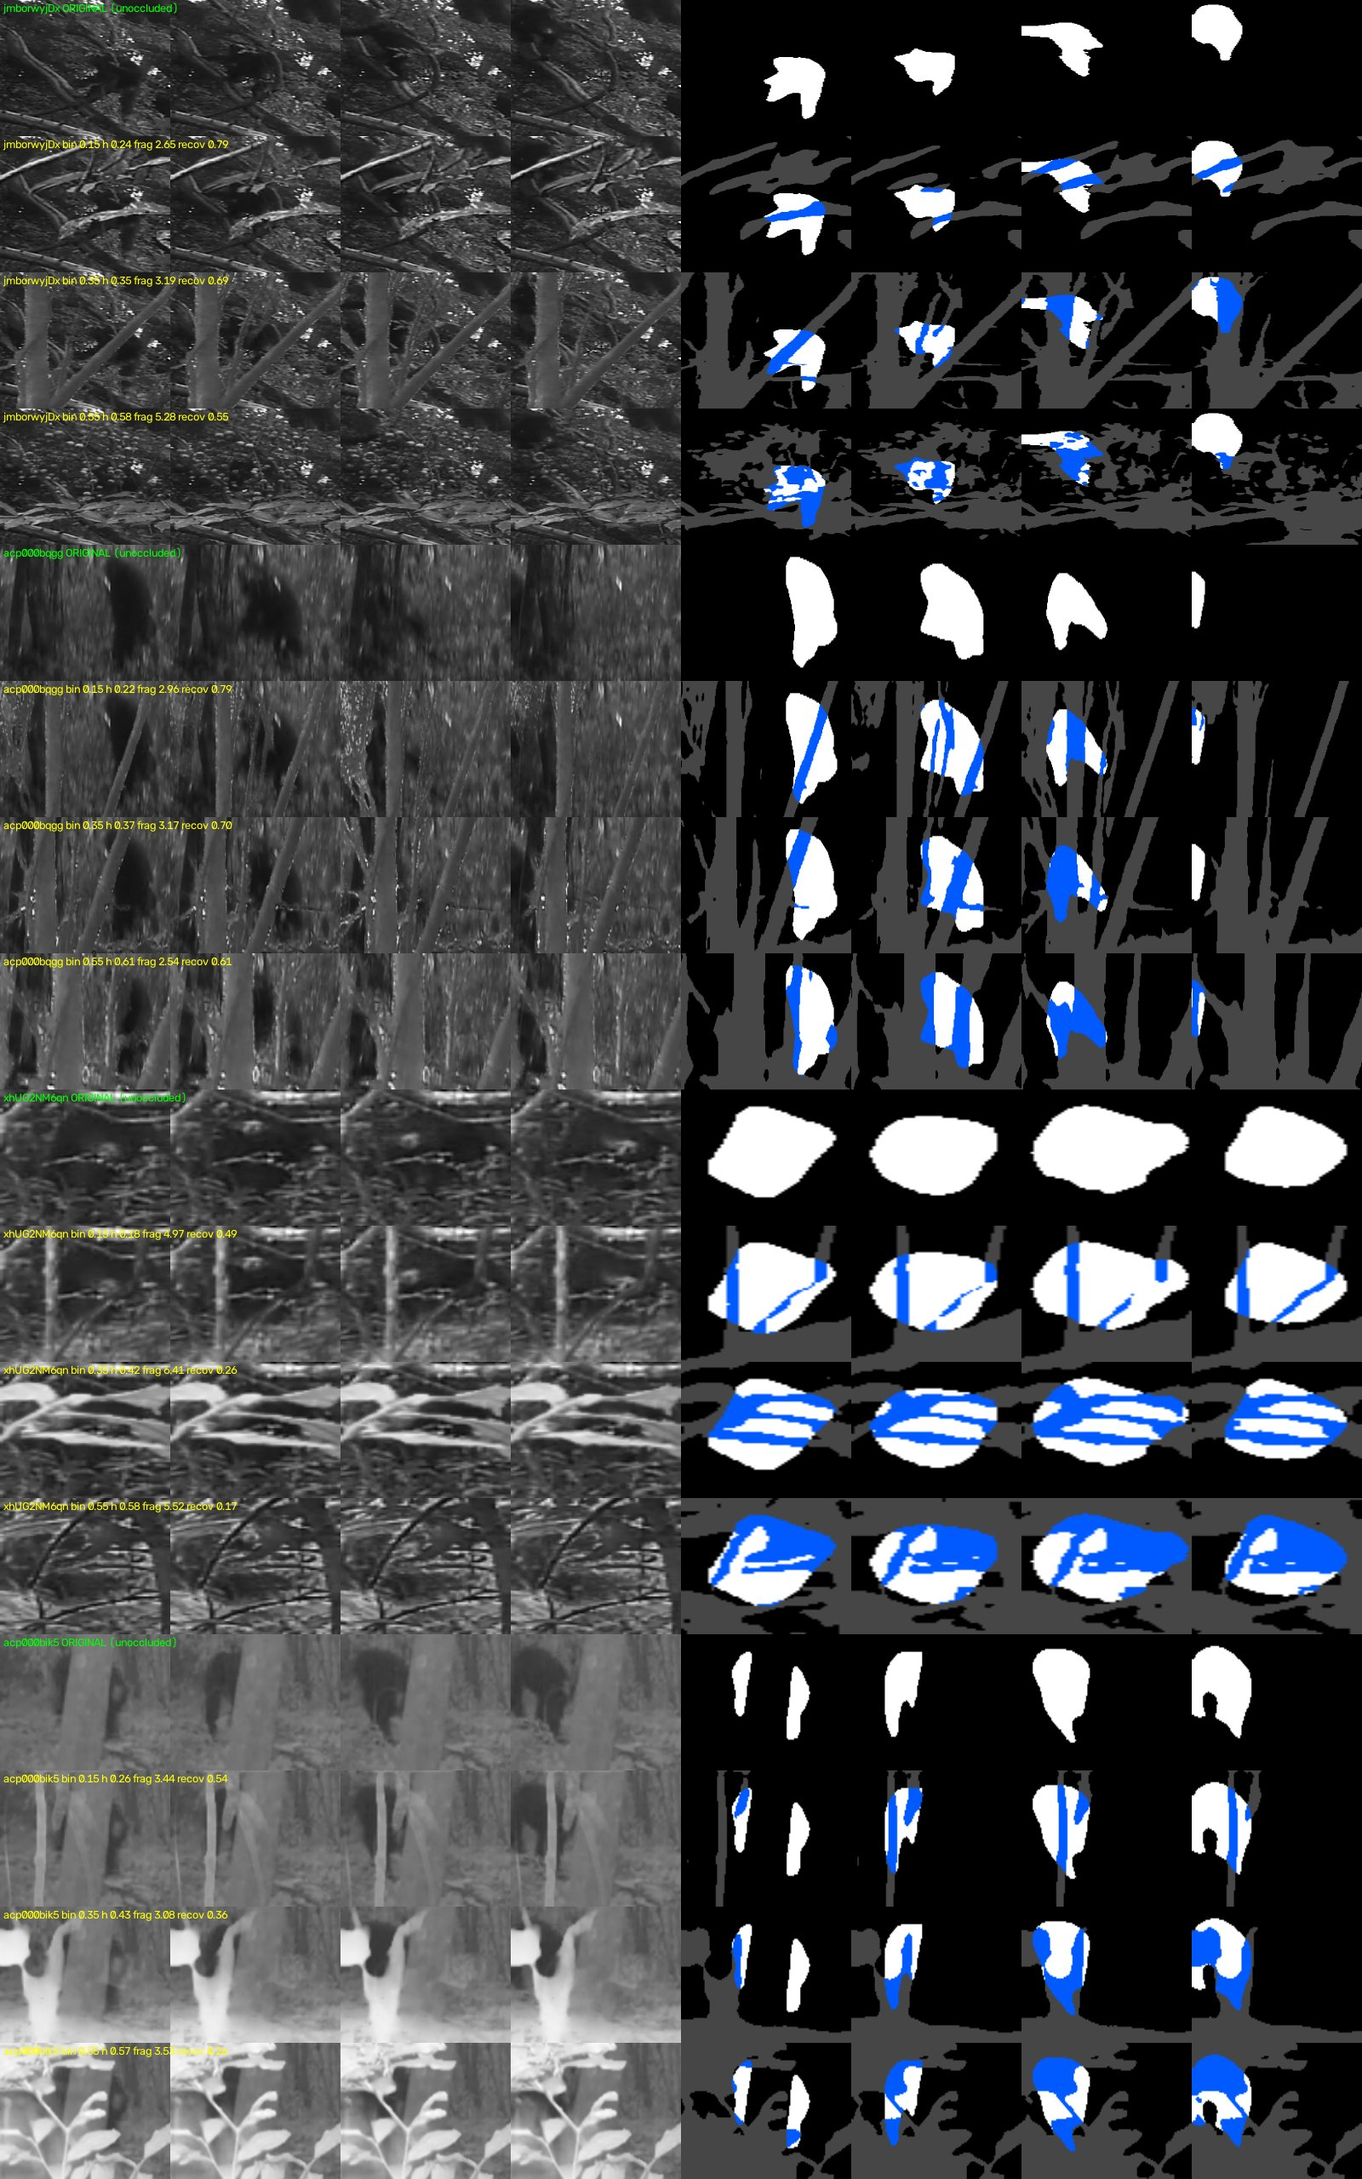
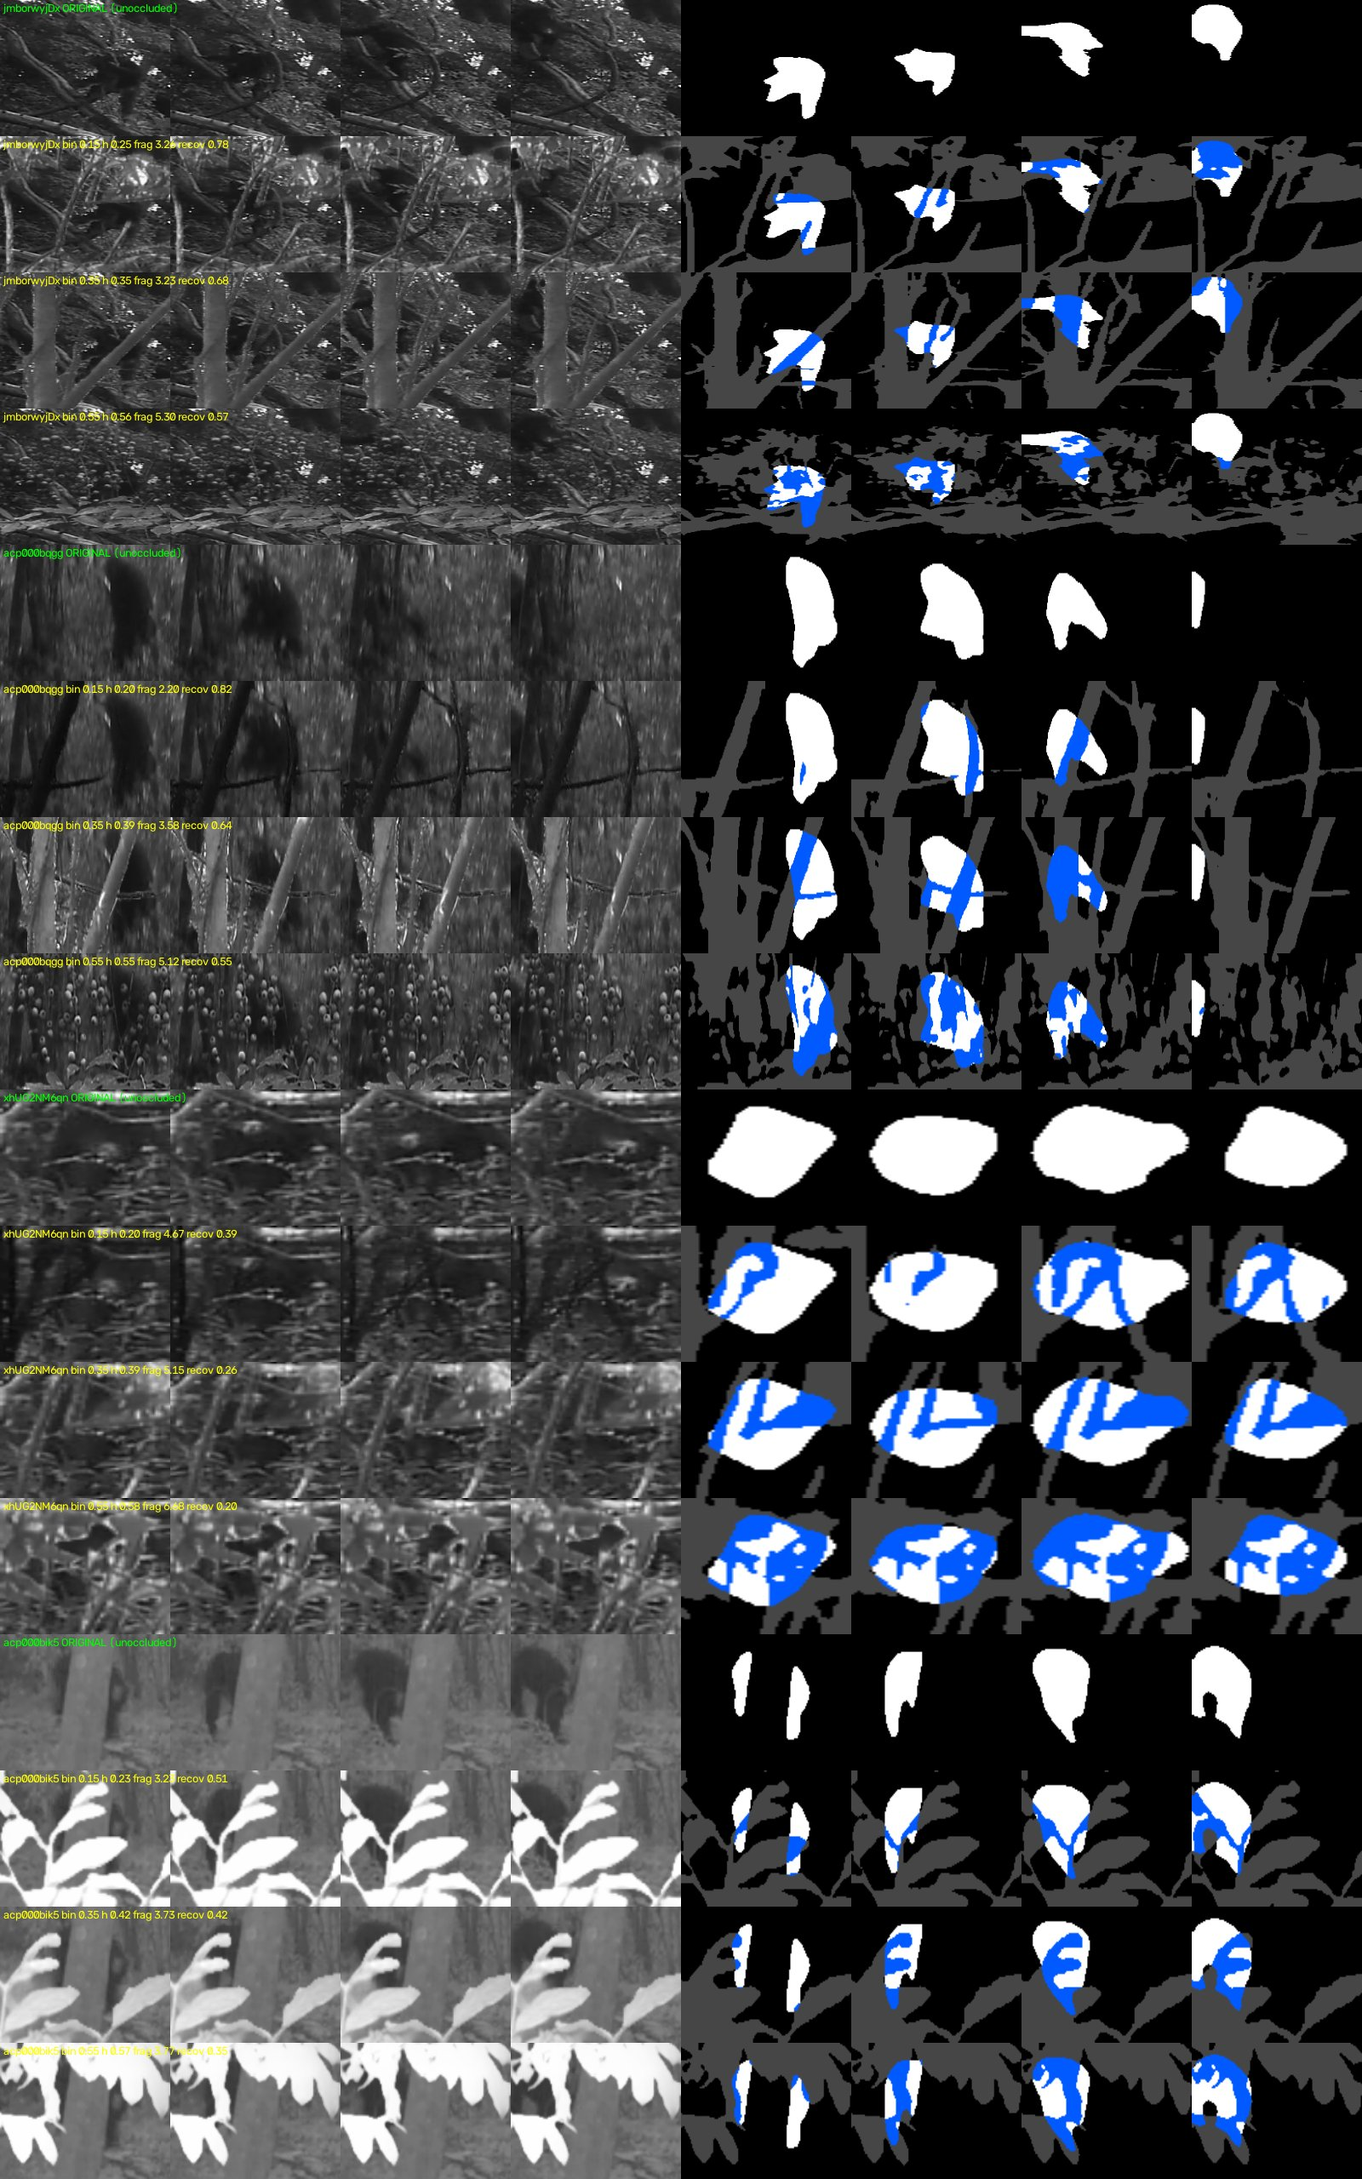
Ape Stage 1: clip loader (planted real-foliage clips in the fusion_data raw format); simpler one-stage clash search; build() takes an optional given track and x+y history shift (NFO build output identical)

diff --git a/benchmark/nfo_vos/ape/data.py b/benchmark/nfo_vos/ape/data.py
@@ -1,0 +1,134 @@
+"""Ape clip loader (Stage 1): one planted training clip in the raw-clip format of adapter/fusion_data.clip_raw, so
+fusion_data.build and training run unchanged.
+
+Per clip (results/ape/clip_index.csv, keep): the ape's 40 gray frames X_t (PanAf-SBR video), its SBR masks S_t, and a
+plant from results/ape/plants.csv (ape/plant.py: foliage crops chosen to clash with this ape's trajectory). Sampling:
+a clip uniformly; with P_CLEAR = 0.1 no plant (the adapter must learn that nothing needs fixing), else an occlusion level
+uniformly (15-35 / 35-55 / 55-75% hidden), then one of its <= 8 plants uniformly.
+  - X'_t = alpha_t F_t + (1 - alpha_t) X_t over R, with the source's per-frame alpha and pixels (real sway), plant.plant();
+  - B = the whole-video median of the ape video (cached, results/ape/bg/); B' = median_t of the planted B (the static
+    part of the foliage is in the empty scene, its sway is not);
+  - V_t = S_t & (alpha_t < 0.5). Boxes (cx, cy, h) = tight boxes of S_t (design should-fix 9), NaN where S_t is empty;
+  - track = box centres (gaps interpolated) + N(0, (TRK_SIGMA h)^2) per frame, given to build() as raw['track'] (no
+    kernel tracker; TRK_SIGMA is assumed, to calibrate on MD-seeded SAM2 boxes); occ['shift_xy'] = True (x + y Theil-Sen).
+    python -m benchmark.nfo_vos.ape.data   -> timing + images/ape/loader.jpg (X'_t, integral image C_t, labels)
+"""
+import json
+from pathlib import Path
+import cv2, numpy as np, pandas as pd, torch
+from benchmark.nfo_vos.ape import PANAF_ROOT, SBR_ROOT, OUT
+from benchmark.nfo_vos.ape.foliage import N
+from benchmark.nfo_vos.ape.plant import ape_clip, frames, plant
+from benchmark.nfo_vos.adapter import dataset as D
+from benchmark.nfo_vos.adapter.fusion_data import P_MODES, SIGMA_A
+
+P_CLEAR, TRK_SIGMA = 0.10, 0.05
+
+
+def background(video):
+    """Whole-video gray median of the SBR video, cached as results/ape/bg/<video>.png."""
+    p = OUT / 'bg' / f'{video}.png'
+    if not p.exists():
+        cap, fr = cv2.VideoCapture(str(SBR_ROOT / 'videos' / f'{video}.mp4')), []
+        while True:
+            ok, f = cap.read()
+            if not ok:
+                break
+            fr.append(cv2.cvtColor(f, cv2.COLOR_BGR2GRAY))
+        p.parent.mkdir(parents=True, exist_ok=True); cv2.imwrite(str(p), np.median(np.stack(fr), 0).astype(np.uint8))
+    return cv2.imread(str(p), cv2.IMREAD_GRAYSCALE)
+
+
+def tight_boxes(S):
+    out = np.full((len(S), 3), np.nan)
+    for t, s in enumerate(S):
+        if s.any():
+            ys, xs = np.nonzero(s); out[t] = ((xs.min() + xs.max() + 1) / 2, (ys.min() + ys.max() + 1) / 2, ys.max() - ys.min() + 1)
+    return out
+
+
+def fill(b):
+    """NaN rows filled by linear interpolation / nearest at the ends."""
+    ok = ~np.isnan(b[:, 0]); t = np.arange(len(b))
+    return np.stack([np.interp(t, t[ok], b[ok, j]) for j in range(b.shape[1])], 1)
+
+
+def clip_raw(row, p, rng):
+    """row: a clip_index row; p: a plants.csv row or None (unoccluded)."""
+    S, _ = ape_clip(row)
+    X = frames(SBR_ROOT / 'videos' / f'{row.video}.mp4', row.start - 1)
+    bg = background(row.video)
+    if p is None:
+        A = np.zeros(X.shape, np.float32)
+    else:
+        R = json.loads(row.R); crop = (p.sx1, p.sy1, p.sx2, p.sy2)
+        F = frames(PANAF_ROOT / 'videos' / f'{p.src}.mp4', p.src_start); Al = np.load(OUT / 'foliage' / f'{p.src}.npz')['alpha']
+        X, A = plant(X, R, F, Al, crop)
+        bg = np.median(plant(np.repeat(bg[None], N, 0), R, F, Al, crop)[0], 0).astype(np.uint8)
+    boxes = tight_boxes(S); bf = fill(boxes)
+    track = bf[:, :2] + rng.normal(0, 1, (N, 2)) * TRK_SIGMA * bf[:, 2:3]
+    occ = dict(nh=int(rng.integers(4, 9)), tau=float(rng.uniform(2, 6)), z0='adaptive', shift_xy=True,
+               level=None if p is None else float(p.bin), h=None if p is None else float(p.h))
+    return dict(X=X, bg=bg, V=S & (A < 0.5), S=S, boxes=boxes, bxj=D.jitter(bf, SIGMA_A, rng), track=track,
+                modes=rng.choice(4, N, p=P_MODES), occ=occ, cid=f'{row.video}:{row.ape_id}:{"clear" if p is None else p.src}')
+
+
+def index():
+    C = pd.read_csv(OUT / 'clip_index.csv'); C = C[C.keep].reset_index(drop=True)
+    P = pd.read_csv(OUT / 'plants.csv'); P['ape_id'] = P.ape_id.astype(str); C['ape_id'] = C.ape_id.astype(str)
+    return C, {k: g for k, g in P.groupby(['video', 'ape_id'])}
+
+
+def sample(C, P, rng):
+    r = C.iloc[rng.integers(len(C))]; g = P.get((r.video, r.ape_id))
+    if g is None or rng.random() < P_CLEAR:
+        return r, None
+    lv = rng.choice(g.bin.unique()); g = g[g.bin == lv]
+    return r, g.iloc[rng.integers(len(g))]
+
+
+class ApeClips(torch.utils.data.IterableDataset):
+    """Endless planted training clips from CPU workers (per-worker seed stream), drop-in for fusion_data.Clips('train')."""
+
+    def __init__(self, seed=0):
+        self.seed = seed
+
+    def __iter__(self):
+        wi = torch.utils.data.get_worker_info(); wid = wi.id if wi else 0
+        rng = np.random.default_rng([self.seed, wid, 7]); C, P = index()
+        while True:
+            yield clip_raw(*sample(C, P, rng), rng)
+
+
+def main():
+    """Timing of clip_raw, then one GPU build() per occlusion level; montage of X'_t, the integral image C_t and labels."""
+    import time
+    from benchmark.nfo_vos.adapter.fusion_adapter import image_predictor
+    from benchmark.nfo_vos.adapter.fusion_data import build, hist_warps
+    from benchmark.nfo_vos.adapter.integral_image import integral_image_and_mass
+    C, P = index(); rng = np.random.default_rng(0); t0 = time.time()
+    for _ in range(5):
+        clip_raw(*sample(C, P, rng), rng)
+    print(f'clip_raw: {(time.time() - t0) / 5:.2f} s/clip (CPU, bg cache warm after first visit)', flush=True)
+    pred, rows = image_predictor(), []
+    r = C.iloc[int(rng.integers(len(C)))]; g = P[(r.video, r.ape_id)]
+    for lv in [None] + sorted(g.bin.unique()):
+        p = None if lv is None else g[(g.bin == lv) & (g['rank'] == 0)].iloc[0]
+        raw = clip_raw(r, p, rng); t1 = time.time(); f, meta = build(pred, raw, max_targets=8, rng=rng)
+        torch.cuda.synchronize(); bt = time.time() - t1
+        t = 20; x1, y1, x2, y2 = [int(round(v)) for v in json.loads(r.R)]
+        hist, Ms = hist_warps(raw['track'], t, raw['occ']['nh'], True)
+        Cm, _ = integral_image_and_mass([raw['X'][i].astype(np.float32) for i in hist], Ms, raw['bg'].astype(np.float32), raw['occ']['tau'], 'adaptive')
+        L = np.zeros(raw['S'][t].shape + (3,), np.uint8); L[raw['S'][t]] = (255, 90, 0); L[raw['V'][t]] = (255, 255, 255)
+        tiles = [cv2.cvtColor(q, cv2.COLOR_GRAY2BGR) for q in (raw['X'][t], np.clip(Cm, 0, 255).astype(np.uint8), raw['bg'])] + [L]
+        row = np.hstack([cv2.resize(q[y1:y2, x1:x2], (220, 180)) for q in tiles])
+        hv = 1 - raw['V'][t].sum() / max(raw['S'][t].sum(), 1)
+        cv2.putText(row, f'{"clear" if lv is None else f"level {lv}"} hidden {hv:.2f} | X_t, C_t, B, labels', (4, 14), 0, 0.42, (0, 255, 255), 1)
+        rows.append(row)
+        print(f'level {lv}: build {bt:.2f} s, {len(meta["ts"])} targets, X16 {tuple(f["X16"].shape)}, hidden at t={t}: {hv:.2f}', flush=True)
+    Path('images/ape').mkdir(parents=True, exist_ok=True); cv2.imwrite('images/ape/loader.jpg', np.vstack(rows), [cv2.IMWRITE_JPEG_QUALITY, 85])
+    print(f'{r.video} ape {r.ape_id} -> images/ape/loader.jpg')
+
+
+if __name__ == '__main__':
+    main()

diff --git a/benchmark/nfo_vos/adapter/fusion_data.py b/benchmark/nfo_vos/adapter/fusion_data.py
@@ -119,6 +119,16 @@ def _enc(pred, imgs, chunk=8):
     return [torch.cat(o) for o in out]
 
 
+def hist_warps(trk, t, nh, xy=False):
+    """History frames t-nh..t-1 and their shifts onto frame t: Theil–Sen fit of the track over [t-12, t], x only (NFO)
+    or x and y (xy=True, apes)."""
+    hist = list(range(t - nh, t))
+    cs = list(range(max(0, t - 12), t + 1))
+    fx = theil_at(cs, [trk[l, 0] for l in cs], [t] + hist)
+    fy = theil_at(cs, [trk[l, 1] for l in cs], [t] + hist) if xy else None
+    return hist, [np.float32([[1, 0, fx[t] - fx[i]], [0, 1, fy[t] - fy[i] if xy else 0]]) for i in hist]
+
+
 @torch.no_grad()
 def build(pred, raw, max_targets=None, rng=None, dev='cuda', all_targets=False):
     """GPU side of one clip, the test-time path: encode every frame once (+ the empty scene); kernel-f16 tracker
@@ -133,12 +143,15 @@ def build(pred, raw, max_targets=None, rng=None, dev='cuda', all_targets=False):
     with torch.autocast('cuda', dtype=AMP):
         F16, F8, F4 = _enc(pred, X)
         B16, B8, B4 = _enc(pred, bg[None])
-    dmap = 1 - torch.nn.functional.cosine_similarity(F16.float(), B16.float(), dim=1)
-    dmap = torch.nn.functional.interpolate(dmap[:, None], size=(H, W), mode='bilinear', align_corners=False)[:, 0].cpu().numpy()
     cx0, cy0, h0 = raw['bxj'][0]
     S0 = raw['S'][0] if raw['S'][0].any() else raw['S'][int(np.argmax(raw['S'].sum((1, 2))))]
     ys, xs = np.nonzero(S0); asp0 = (np.ptp(xs) + 1) / (np.ptp(ys) + 1)
-    trk = kernel_track(dmap, (cx0, cy0), asp0 * h0, h0)
+    if 'track' in raw:                     # given track (apes: GT box centres + noise) instead of the kernel-f16 tracker
+        trk = raw['track']
+    else:
+        dmap = 1 - torch.nn.functional.cosine_similarity(F16.float(), B16.float(), dim=1)
+        dmap = torch.nn.functional.interpolate(dmap[:, None], size=(H, W), mode='bilinear', align_corners=False)[:, 0].cpu().numpy()
+        trk = kernel_track(dmap, (cx0, cy0), asp0 * h0, h0)
     nh = occ['nh']
     ok = ~np.isnan(raw['boxes']).any(1)
     # all_targets: every frame with history, no GT gate (the memory bank at test time has no V); training default keeps
@@ -150,12 +163,8 @@ def build(pred, raw, max_targets=None, rng=None, dev='cuda', all_targets=False):
     def comp(t):
         if raw['modes'][t] == 2:
             return bg.astype(np.float32), np.zeros((H, W), np.float32)
-        hist = list(range(t - nh, t))
-        cs = list(range(max(0, t - 12), t + 1))
-        fx = theil_at(cs, [trk[l, 0] for l in cs], [t] + hist)
-        return integral_image_and_mass([X[i].astype(np.float32) for i in hist],
-                                  [np.float32([[1, 0, fx[t] - fx[i]], [0, 1, 0]]) for i in hist], bg.astype(np.float32),
-                                  occ['tau'], occ['z0'])
+        hist, Ms = hist_warps(trk, t, nh, occ.get('shift_xy', False))
+        return integral_image_and_mass([X[i].astype(np.float32) for i in hist], Ms, bg.astype(np.float32), occ['tau'], occ['z0'])
     with ThreadPoolExecutor(8) as ex:
         CA = list(ex.map(comp, ts))
     with torch.autocast('cuda', dtype=AMP):

diff --git a/benchmark/nfo_vos/ape/plant.py b/benchmark/nfo_vos/ape/plant.py
@@ -13,8 +13,8 @@ Scores, with |.| = pixel count on the grid:
   frag    = median_t |edge(O) & S_t| / sqrt|S_t|             occluder boundary inside the ape (fragmentation)
   recov   = mean_t |H_t & U_t| / |H_t|,  H_t = S_t & O,      share of the hidden ape that the last 6 frames saw:
             U_t = OR_{k=1..6} shift(S_{t-k} & ~O, c_t - c_{t-k})   (rigid box-centre motion, as the integral image's shift)
-Per clip and hidden-fraction bin (median h in [.15,.35), [.35,.55), [.55,.75]): the 64 most fragmented valid candidates
-get recov; the top K = 8 by recov, one per source, are kept.
+Per clip and hidden-fraction bin (median h in [.15,.35), [.35,.55), [.55,.75]): valid candidates at least as fragmented
+as the clip's median valid candidate (at most 512, random) get recov; the top K = 8 by recov, one per source, are kept.
     python -m benchmark.nfo_vos.ape.plant  -> results/ape/plants.csv, images/ape/plants.jpg
 Planting itself (plant()) composites the per-frame alpha and pixels of the same source crop over R: real sway.
 """
@@ -30,7 +30,7 @@ from benchmark.nfo_vos.ape.foliage import N
 G, SCALES, NOFF, CHUNK = 128, (0.7, 1.0, 1.4), 64, 4096
 HB, MIN_IN = (0.15, 0.75), N - 6
 BINS = ((0.15, 0.35), (0.35, 0.55), (0.55, 0.75))
-TOPF, K, LAG = 64, 8, 6
+MAXR, K, LAG = 512, 8, 6
 DEV = 'cuda'
 
 
@@ -129,11 +129,12 @@ def search(r, T, P, rng):
         keep.append(np.arange(k0, k0 + len(b))[good.cpu().numpy()]); H_.append(hm[good].cpu().numpy()); F_.append(fm[good].cpu().numpy())
     keep, H_, F_ = np.concatenate(keep), np.concatenate(H_), np.concatenate(F_)
     rows, stats = [], dict(video=r.video, ape_id=r.ape_id, n_cand=len(bx), n_valid=len(keep), ir=ir)
+    fmin = np.median(F_) if len(F_) else 0.0
     for lo, hi in BINS:
-        m = (H_ >= lo) & (H_ < hi); stats[f'n_{lo}'] = int(m.sum())
+        m = (H_ >= lo) & (H_ < hi) & (F_ >= fmin); stats[f'n_{lo}'] = int(m.sum())
         if not m.any():
             continue
-        idx = np.where(m)[0]; idx = idx[np.argsort(-F_[idx])[:TOPF]]
+        idx = np.where(m)[0]; idx = rng.permutation(idx)[:MAXR]
         b = torch.from_numpy(bx[keep[idx], :5]).float().to(DEV)
         O = (roi_align(P, b, (gh, gw), 1.0, 2, True)[:, 0] >= 0.5).float(); rc = recov(O, Sg, c).cpu().numpy()
         stats[f'recov_all_{lo}'] = float(np.median(rc)); used = set()
@@ -204,7 +205,7 @@ def main():
     for lo, _ in BINS:
         q = P_[P_.bin == lo]; n = q.groupby(['video', 'ape_id']).size()
         print(f'bin {lo}: clips with >= 1 plant {len(n)}/{len(C)}, with {K}: {(n == K).sum()}; selected recov median {q.recov.median():.3f} '
-              f'(rank 0: {q[q["rank"] == 0].recov.median():.3f}) vs top-frag pool median {St[f"recov_all_{lo}"].median():.3f}; '
+              f'(rank 0: {q[q["rank"] == 0].recov.median():.3f}) vs median fragmented valid placement {St[f"recov_all_{lo}"].median():.3f}; '
               f'frag median {q.frag.median():.3f}')
     montage(P_, C)
 

diff --git a/benchmark/nfo_vos/tests/test_ape_data.py b/benchmark/nfo_vos/tests/test_ape_data.py
@@ -1,0 +1,21 @@
+import numpy as np, pytest
+from benchmark.nfo_vos.ape import OUT
+
+pytestmark = pytest.mark.skipif(not (OUT / 'plants.csv').exists(), reason='needs results/ape (pool + plants)')
+
+
+def test_planted_clip_labels_and_shapes():
+    from benchmark.nfo_vos.ape.data import index, clip_raw, N
+    C, P = index(); r = C.iloc[0]; g = P[(r.video, r.ape_id)]; p = g[g['rank'] == 0].iloc[0]
+    d = clip_raw(r, p, np.random.default_rng(0))
+    assert d['X'].shape == (N, r.H, r.W) and d['X'].dtype == np.uint8 and d['bg'].shape == (r.H, r.W)
+    assert not (d['V'] & ~d['S']).any()                                            # visible is part of the ape
+    hid = [1 - v.sum() / s.sum() for v, s in zip(d['V'], d['S']) if s.any()]
+    assert abs(np.median(hid) - p.h) < 0.15                                         # per-frame alpha ~ the searched median
+    assert not np.isnan(d['bxj']).any() and not np.isnan(d['track']).any() and d['occ']['shift_xy']
+
+
+def test_clear_clip_is_unoccluded():
+    from benchmark.nfo_vos.ape.data import index, clip_raw
+    C, _ = index(); d = clip_raw(C.iloc[0], None, np.random.default_rng(0))
+    assert (d['V'] == d['S']).all()

diff --git a/docs/layer_sam2/2026-11-13-ape-stage1-HANDOFF.md b/docs/layer_sam2/2026-11-13-ape-stage1-HANDOFF.md
@@ -36,3 +36,15 @@ Before that: the foliage pool (offline depth on the source frames, per-frame nea
 - `docs/layer_sam2/2026-11-13-feature-integral-design-notes.md`: learned feature-space integral image. It comes after
   Stage 1; masked attention, no warping; literature pass included.
 - PanAf facts and numbers: `../PanAf20K/docs/2026-11-13-handoff.md`.
+
+## Done 2026-11-13 (evening)
+- Foliage pool `ape/foliage.py`: 189 PanAf500 sources (non-eval, non-leaked), 40 frames of per-frame near-layer alpha
+  each (Depth Anything V2 Small), 70 s. Pixels are re-decoded at plant time.
+- Clash search `ape/plant.py` (user: preferred over blind placement, which yields a valid clip only 4.8% of the time):
+  per clip, foliage crops that hide 15-75% of the ape in >= 34/40 frames, are fragmented, and maximise the share of the
+  hidden ape seen in the last 6 frames (what the integral image can recover). 3 levels x <= 8 plants, 19 s for 119 clips.
+- Loader `ape/data.py` (`ApeClips`, `clip_raw`): fusion_data raw format, 0.7 s/clip CPU. `build()` takes an optional
+  `raw['track']` and `occ['shift_xy']`; NFO `build()` output IDENTICAL before/after (parity_snapshot itself fails on the
+  laptop: missing recog CSV for report.py).
+- Next: wire `ApeClips` into `fusion_adapter` training (env switch), the 9-video planted val set, then the expert review
+  of the training pipeline before the first run.
